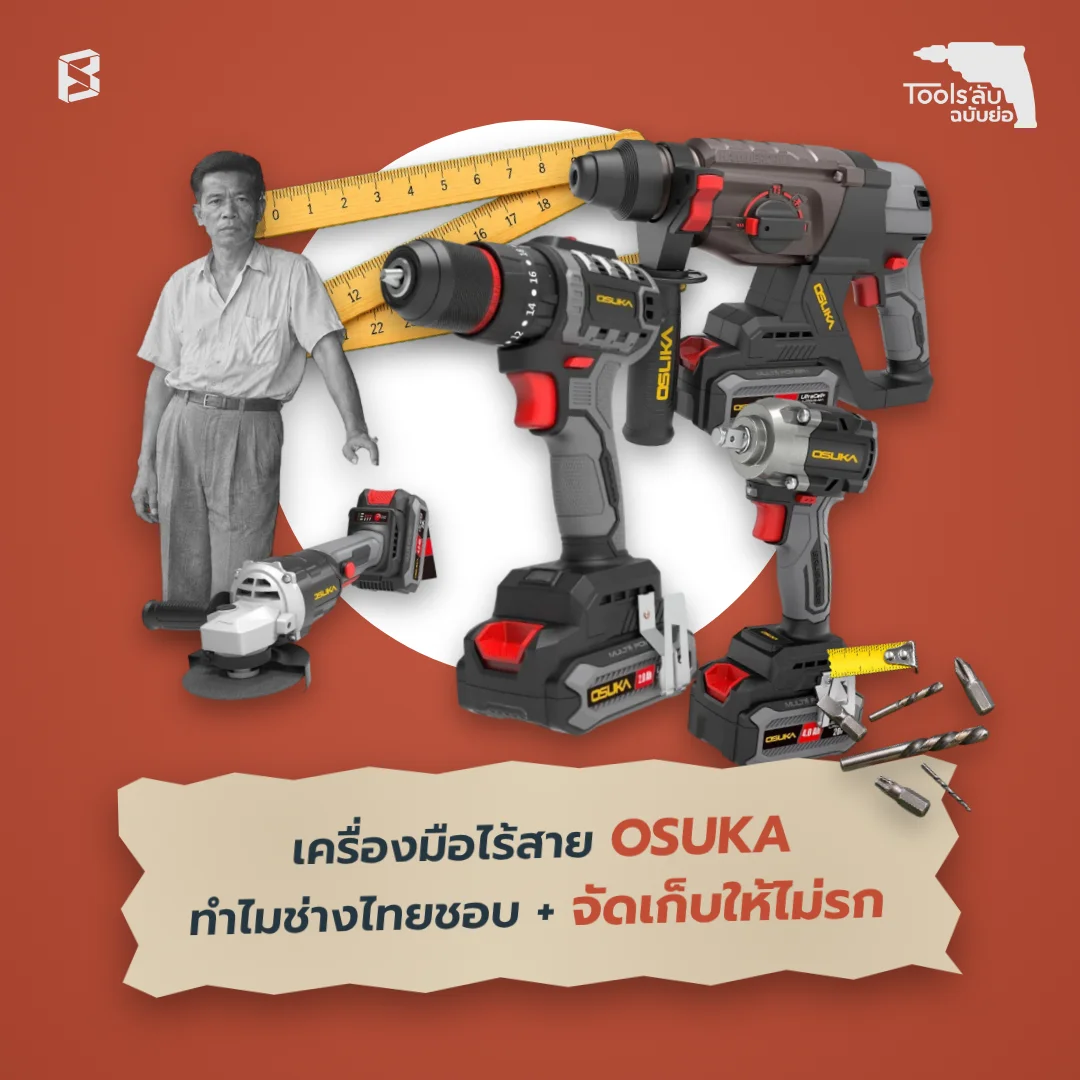
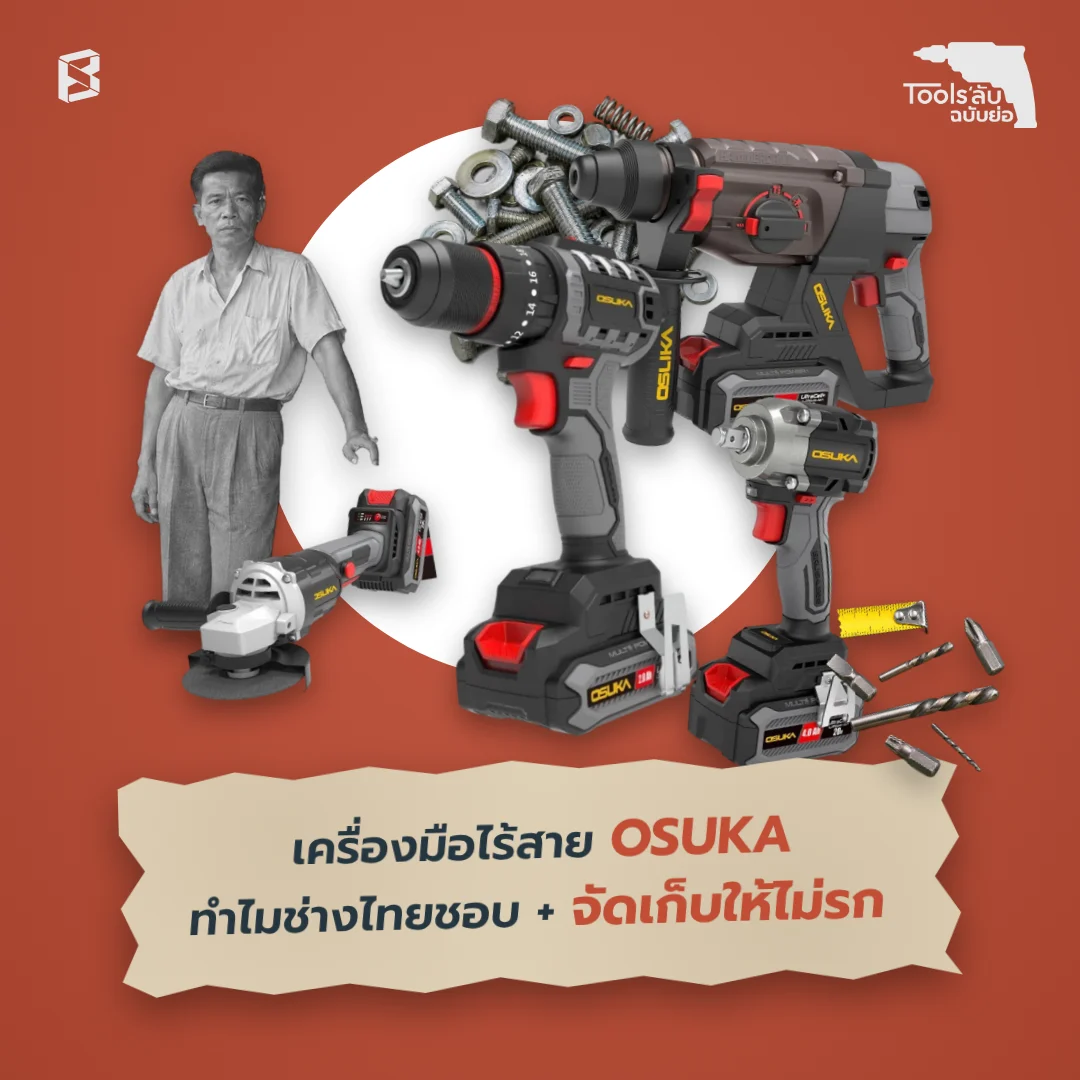
Brand covers: fix stray cut-out parts, feather vintage photos, replace AI ruler
Claude-Session: https://claude.ai/code/session_019o1owF4k6zki7iDKZ7Hwnj

diff --git a/content/articles/osuka-cordless-tools-guide.md b/content/articles/osuka-cordless-tools-guide.md
@@ -4,7 +4,7 @@ description: เครื่องมือไร้สาย OSUKA ทำไม
 date: 2026-11-24
 pillar: product
 cover: /articles/brand-osuka.webp
-coverAlt: ปกบทความเครื่องมือไร้สาย OSUKA: คอลลาจสว่าน สว่านโรตารี่ บล็อกกระแทก และหินเจียรไร้สาย OSUKA 20V พร้อมไม้บรรทัดพับ และภาพขาวดำช่างไทยยุคเก่า
+coverAlt: ปกบทความเครื่องมือไร้สาย OSUKA: คอลลาจสว่าน สว่านโรตารี่ บล็อกกระแทก และหินเจียรไร้สาย OSUKA 20V พร้อมน็อต สปริง ดอกสว่าน ตลับเมตร และภาพขาวดำช่างไทยยุคเก่า
 keywords: เครื่องมือไร้สาย OSUKA, สว่านไร้สาย OSUKA, แบต OSUKA 20V, กล่องเครื่องมือ OSUKA, CONNECT+BOX, ที่เก็บแบต OSUKA, จัดเก็บเครื่องมือช่าง
 ---
 
